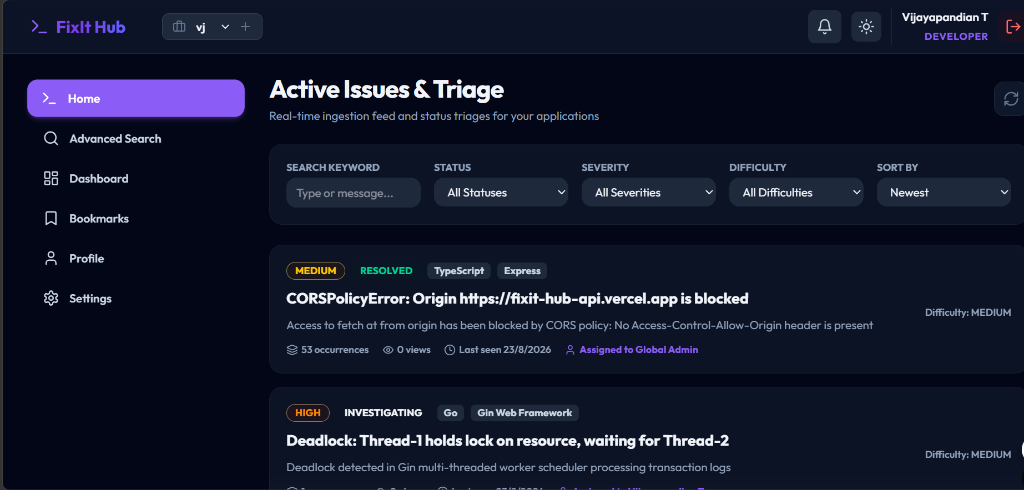
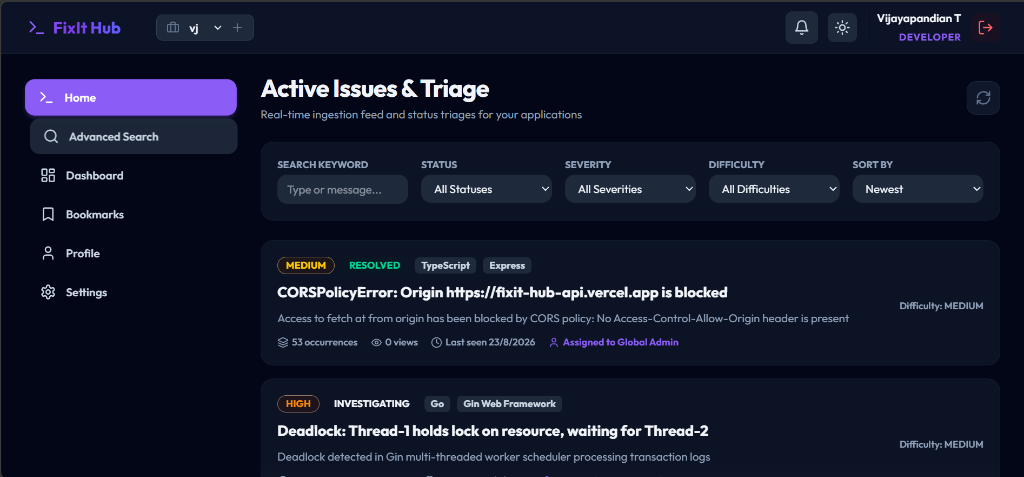
docs: add developer dashboard active issues preview image to README

diff --git a/README.md b/README.md
@@ -10,7 +10,7 @@
 
 An AI-powered, self-hosted, real-time error tracking and exception monitoring system designed to help developers capture, diagnose, and resolve application bugs instantly. FixIt Hub combines high-performance log ingestion, automated issue deduplication, Elasticsearch-powered search, and Google Gemini AI diagnostics to provide instant root-cause analysis and actionable resolution steps.
 
-![FixIt Hub Active Issues & Triage Dashboard](docs/images/dashboard.png)
+![FixIt Hub Developer Dashboard](docs/images/dashboard.png)
 
 ---
 
